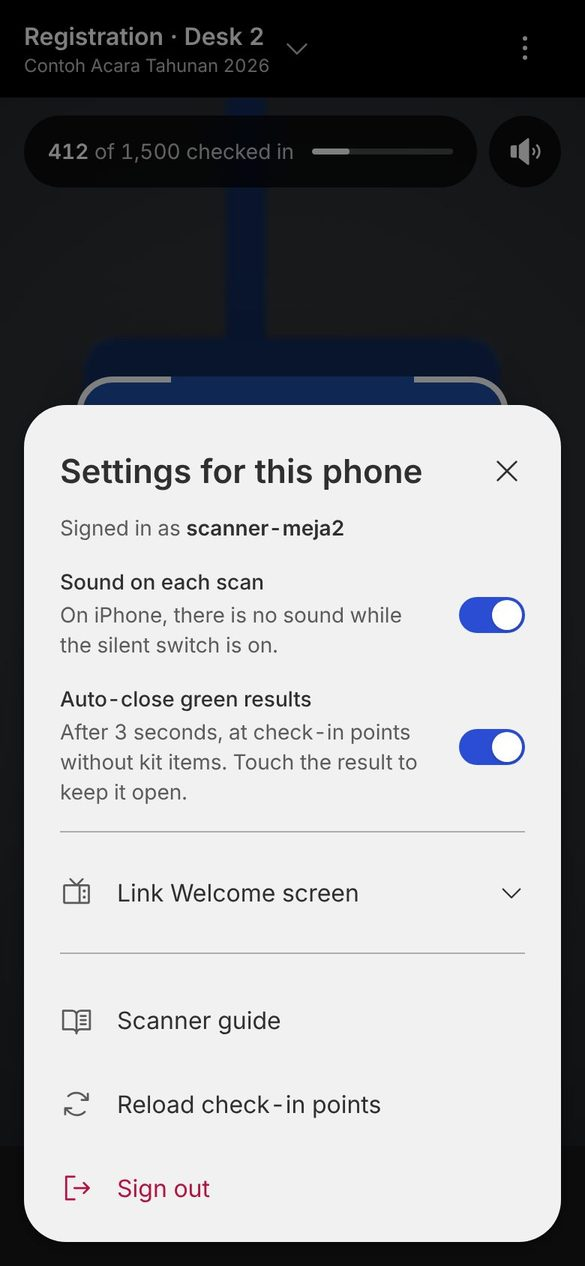
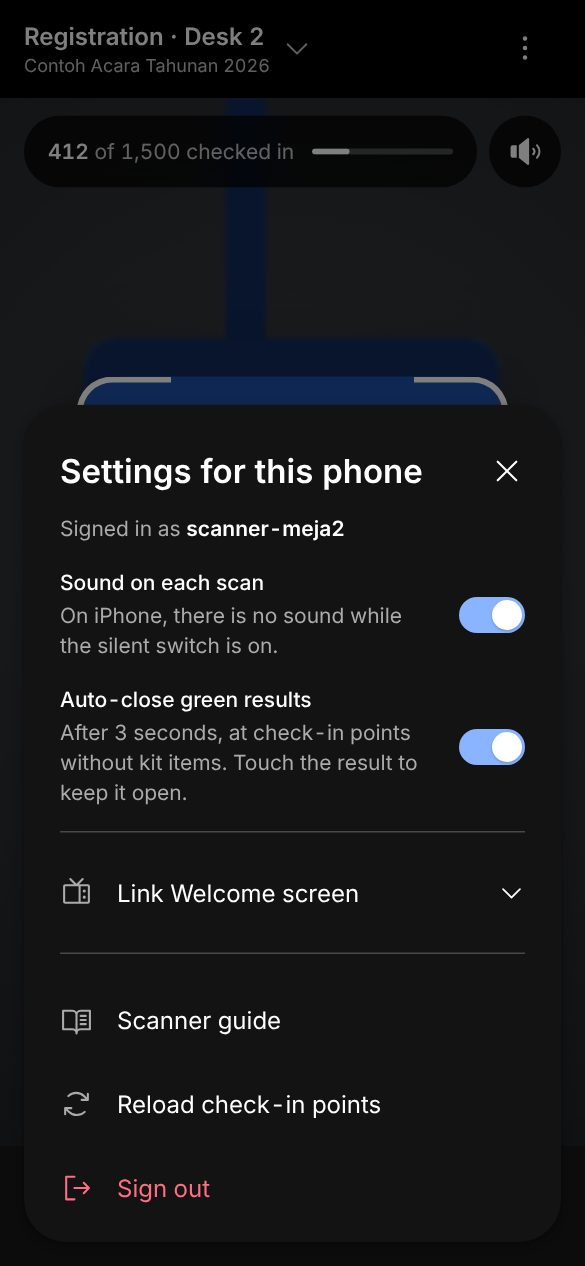
Scanner on phones: one dark theme across tabs, History kept for the day (#371)
* Scanner on phones: one dark theme for Scan, Find name and History; History kept for the day

Find name and History switched to a white canvas on phones, glaring in a dark
hall. They now use the same dark roles as the camera; the result sheet keeps
its approved status colours and the Show QR screen stays light. History keeps
the last 50 scans of the day in localStorage (names, status, time; no codes),
so a reload no longer wipes it. No SQL.

Claude-Session: https://claude.ai/code/session_01P7FxNY9NK6ZNDn6MYfiiKC

* Scanner on phones: Scan screen keeps its approved colours; History stores no raw codes and is cleared on sign-out

Claude-Session: https://claude.ai/code/session_01P7FxNY9NK6ZNDn6MYfiiKC

* Scanner on phones: one dark theme on Scan too (Mas 2 Nov); result sheet cards keep light roles; guide shots 01-14 reshot

Claude-Session: https://claude.ai/code/session_01P7FxNY9NK6ZNDn6MYfiiKC

---------

diff --git a/src/app/scan/scan-client.tsx b/src/app/scan/scan-client.tsx
@@ -171,6 +171,39 @@ const BARUSAN_MS = 30_000;
  */
 const KELONGGARAN_JAM_MS = 5_000;
 
+/**
+ * Riwayat pindaian ponsel ini, disimpan sampai akhir hari.
+ *
+ * Dulu hanya di memori: justru saat sinyal jelek petugas memuat ulang halaman,
+ * dan bukti siapa yang barusan masuk ikut hilang. Kuncinya per alamat acara
+ * (`/e/<slug>`), tanggalnya tanggal ponsel; hari berganti = daftar kosong.
+ * Hanya nama, status, dan jam: tidak ada kode QR di sini.
+ */
+type BarisRiwayat = { nama: string; status: Hasil["status"]; waktu: string };
+const BATAS_RIWAYAT = 50;
+function kunciRiwayat(): string {
+  const awalan = window.location.pathname.match(/^\/e\/[^/]+/)?.[0] ?? "";
+  return `scan-riwayat:${awalan}`;
+}
+function tanggalPonsel(): string {
+  const d = new Date();
+  return `${d.getFullYear()}-${d.getMonth() + 1}-${d.getDate()}`;
+}
+function bacaRiwayat(): BarisRiwayat[] {
+  try {
+    const isi = JSON.parse(window.localStorage.getItem(kunciRiwayat()) ?? "null") as { tanggal?: string; baris?: BarisRiwayat[] } | null;
+    if (!isi || isi.tanggal !== tanggalPonsel() || !Array.isArray(isi.baris)) return [];
+    return isi.baris.filter((b) => typeof b?.nama === "string" && typeof b?.waktu === "string").slice(0, BATAS_RIWAYAT);
+  } catch {
+    return [];
+  }
+}
+function simpanRiwayat(baris: BarisRiwayat[]) {
+  try {
+    window.localStorage.setItem(kunciRiwayat(), JSON.stringify({ tanggal: tanggalPonsel(), baris: baris.slice(0, BATAS_RIWAYAT) }));
+  } catch { /* penyimpanan penuh atau tidak tersedia: riwayat tetap di memori */ }
+}
+
 function bacaTutupOtomatis(): boolean {
   try {
     return window.localStorage.getItem(KUNCI_TUTUP) !== "0";
@@ -371,7 +404,22 @@ export default function ScanClient() {
   // Peserta aktif acara, seluruh meja. Null sampai terbaca, atau bila hitungannya
   // gagal: layar lalu kembali ke angka hadir saja, tanpa "dari".
   const [terdaftar, setTerdaftar] = useState<number | null>(null);
-  const [riwayat, setRiwayat] = useState<Array<{ nama: string; status: Hasil["status"]; waktu: string }>>([]);
+  const [riwayat, setRiwayat] = useState<BarisRiwayat[]>([]);
+  // Dibaca setelah hidrasi (localStorage tidak ada di server), lalu disimpan
+  // setiap kali berubah. `riwayatDimuat` mencegah daftar kosong awal menimpa
+  // simpanan sebelum sempat dibaca.
+  const riwayatDimuat = useRef(false);
+  useEffect(() => {
+    const timer = window.setTimeout(() => {
+      const lama = bacaRiwayat();
+      if (lama.length) setRiwayat((sekarang) => [...sekarang, ...lama].slice(0, BATAS_RIWAYAT));
+      riwayatDimuat.current = true;
+    }, 0);
+    return () => window.clearTimeout(timer);
+  }, []);
+  useEffect(() => {
+    if (riwayatDimuat.current) simpanRiwayat(riwayat);
+  }, [riwayat]);
   const [pesan, setPesan] = useState("");
   const [sibuk, setSibuk] = useState(false);
 
@@ -751,9 +799,11 @@ export default function ScanClient() {
     bunyikan(beres ? "ok" : data.status === "duplicate" ? "ulang" : "galat", suaraRef.current);
     const waktu = new Date().toISOString();
     setRiwayat((current) => [
-      { nama: data.participant?.name ?? data.qr ?? "Unknown", status: beres ? "recorded" : data.status, waktu },
+      // Kode mentah tidak disimpan: bisa jadi QR asli peserta yang dibatalkan,
+      // dan History bertahan di ponsel sampai akhir hari.
+      { nama: data.participant?.name ?? (data.status === "not_found" ? "Unknown code" : "Unknown"), status: beres ? "recorded" : data.status, waktu },
       ...current,
-    ].slice(0, 20));
+    ].slice(0, BATAS_RIWAYAT));
     if (beres && data.participant) {
       setTerakhirHadir({ nama: data.participant.name, waktu });
       const catatan = { waktu: Date.now(), hasil: data };
@@ -1310,6 +1360,16 @@ export default function ScanClient() {
   async function keluar() {
     setKeluarJalan(true);
     await fetch("/api/auth/logout", { method: "POST" }).catch(() => null);
+    // Ponsel scanner sering dipakai bergantian: History petugas sebelumnya
+    // (nama peserta) tidak ikut terbaca oleh petugas berikutnya.
+    try {
+      for (let i = window.localStorage.length - 1; i >= 0; i -= 1) {
+        const kunci = window.localStorage.key(i);
+        if (kunci?.startsWith("scan-riwayat:")) window.localStorage.removeItem(kunci);
+      }
+    } catch {
+      // Penyimpanan diblokir: tidak ada yang perlu dihapus.
+    }
     router.replace("/login");
     router.refresh();
   }
@@ -1423,6 +1483,11 @@ export default function ScanClient() {
    * Layar lebar (lg) tetap kolom kamera + panel angka.
    */
   const imersif = mode === "qr" && !tampilQr;
+  // Ponsel: satu tema gelap untuk Scan, Find name dan History. Dulu Find name
+  // dan History berganti ke kanvas putih, menyilaukan di ruang gelap dan terasa
+  // seperti aplikasi lain. Kecuali saat menampilkan QR untuk dipindai peserta:
+  // layar itu tetap terang supaya kamera peserta mudah membacanya.
+  const gelap = !tampilQr;
   const { sentinel: penandaAtas, scrolled: tergulir } = useScrolledPastTop();
 
   const judulMeja = `${sesiAktif?.name ?? "Choose a check-in point"}${jalurAktif ? ` · ${jalurAktif.name}` : ""}`;
@@ -1483,7 +1548,7 @@ export default function ScanClient() {
 
   const daftarRiwayat = (batas: number) =>
     riwayat.length === 0 ? (
-      <p className="mt-2 text-body-small text-on-surface-variant">No scans yet on this phone since the screen was opened.</p>
+      <p className="mt-2 text-body-small text-on-surface-variant">No scans on this phone today.</p>
     ) : (
       <ul className="mt-1 divide-y divide-outline-variant">
         {riwayat.slice(0, batas).map((baris, index) => (
@@ -1515,7 +1580,7 @@ export default function ScanClient() {
   };
 
   return (
-    <div lang="en" className={`scan-teks warna-pemindai min-h-dvh bg-surface text-on-surface lg:pb-12 ${imersif ? "pb-[calc(5rem+env(safe-area-inset-bottom))] max-lg:bg-black" : "pb-24"}`}>
+    <div lang="en" className={`scan-teks warna-pemindai min-h-dvh bg-surface text-on-surface lg:pb-12 ${gelap ? "gelap-ponsel gelap-ponsel-isi max-lg:bg-black" : ""} ${imersif ? "pb-[calc(5rem+env(safe-area-inset-bottom))]" : "pb-24"}`}>
       <div ref={penandaAtas} aria-hidden className="h-0" />
       {/* -------------------------------------------------------------------
           Bilah atas.
@@ -1530,7 +1595,7 @@ export default function ScanClient() {
           muncul saat ada yang tergulir di bawahnya. */}
       <header
         className={`sticky top-0 z-30 border-b bg-surface transition-colors ${tergulir ? "border-outline-variant" : "border-transparent"} ${
-          imersif ? "gelap-ponsel max-lg:border-transparent max-lg:bg-black max-lg:text-white" : ""
+          gelap ? "gelap-ponsel max-lg:border-transparent max-lg:bg-black max-lg:text-white" : ""
         }`}
       >
         <div className="mx-auto flex h-16 w-full max-w-[1280px] items-center gap-2 px-4 sm:px-6 lg:px-8">
@@ -1542,14 +1607,14 @@ export default function ScanClient() {
           >
             <span className="min-w-0">
               <span className="block truncate text-title-large font-semibold max-lg:text-title-medium">{judulMeja}</span>
-              <span className={`block truncate text-body-small text-on-surface-variant ${imersif ? "max-lg:text-white/75" : ""}`}>{eventName || "Loading…"}</span>
+              <span className={`block truncate text-body-small text-on-surface-variant ${gelap ? "max-lg:text-white/75" : ""}`}>{eventName || "Loading…"}</span>
             </span>
-            <CaretDown size={20} className={`shrink-0 text-on-surface-variant ${imersif ? "max-lg:text-white/75" : ""}`} aria-hidden />
+            <CaretDown size={20} className={`shrink-0 text-on-surface-variant ${gelap ? "max-lg:text-white/75" : ""}`} aria-hidden />
             <span className="sr-only">Change check-in point or desk</span>
           </button>
           <span className="hidden flex-1 lg:block" />
           {offline ? <ChipOffline /> : null}
-          <IconButton label="Scanner menu" onClick={() => setMenuTerbuka(true)} className={imersif ? "max-lg:!text-white" : undefined}>
+          <IconButton label="Scanner menu" onClick={() => setMenuTerbuka(true)} className={gelap ? "max-lg:!text-white" : undefined}>
             <DotsThreeVertical size={24} weight="bold" />
           </IconButton>
         </div>
@@ -1850,7 +1915,8 @@ export default function ScanClient() {
                   <p className="text-body-small text-on-surface-variant">
                     The count above covers all desks at this check-in point and counts people, not repeat scans.
                   </p>
-                  {daftarRiwayat(20)}
+                  {daftarRiwayat(BATAS_RIWAYAT)}
+                  {riwayat.length > 0 ? <p className="mt-2 text-body-small text-on-surface-variant">Kept on this phone until the end of the day, also after a reload.</p> : null}
                 </div>
               </div>
             ) : null}
@@ -1886,7 +1952,7 @@ export default function ScanClient() {
       <nav
         aria-label="Scanner mode"
         className={`fixed inset-x-0 bottom-0 z-30 flex h-[calc(5rem+env(safe-area-inset-bottom))] bg-surface-container pb-[env(safe-area-inset-bottom)] lg:hidden ${
-          imersif ? "gelap-ponsel" : "border-t border-outline-variant"
+          gelap ? "gelap-ponsel" : "border-t border-outline-variant"
         }`}
       >
         {navBawah("qr", "Scan", <QrCode size={24} weight={mode === "qr" ? "fill" : "regular"} aria-hidden />)}

diff --git a/src/app/globals.css b/src/app/globals.css
@@ -2317,6 +2317,79 @@ html:hover {
 		--cincin-fokus: #8ab4ff;
 	}
 }
+/* Isi layar pemindai ponsel (Scan, Find name, History; Mas 2 Nov: satu tema
+ * gelap): peran gelap lengkap supaya kartu, kolom cari, dan teks status
+ * tetap terbaca di kanvas hitam. Lembar hasil TIDAK di-portal, jadi warnanya
+ * dikembalikan lewat .hasil-nada di bawah. Dialog yang dibuka dari layar ini
+ * ikut gelap. */
+@media (width < 64rem) {
+	.gelap-ponsel-isi {
+		--surface: #000000;
+		--surface-muted: #1f1f1f;
+		--md-sys-color-surface: #000000;
+		--md-sys-color-surface-container-low: #131313;
+		--md-sys-color-surface-container-high: #1f1f1f;
+		--md-sys-color-surface-container-highest: #262626;
+		--md-sys-color-surface-variant: #262626;
+		--md-sys-color-error: #ff6e84;
+		--md-sys-color-success: #7ad8bd;
+		--md-sys-color-warning: #ffb68c;
+		--md-sys-color-error-soft: #67001f;
+		--md-sys-color-on-error-soft: #ffdadc;
+		--md-sys-color-success-soft: #00382c;
+		--md-sys-color-on-success-soft: #96f4d9;
+		--md-sys-color-warning-soft: #522300;
+		--md-sys-color-on-warning-soft: #ffdbc9;
+	}
+	/* Seluruh lembar hasil (termasuk kartu bagasi, barang, dan cetak di
+	 * dalamnya) kembali ke peran terang: tema gelap hanya untuk kanvas di
+	 * belakangnya. Nilainya salinan peran terang m3-theme.css. */
+	.gelap-ponsel-isi .lembar-hasil {
+		color-scheme: light;
+		--surface: var(--md-sys-color-surface-container-lowest);
+		--surface-muted: var(--md-sys-color-surface-container);
+		--md-sys-color-on-surface: #2f2f2f;
+		--md-sys-color-on-surface-variant: #5b5b5b;
+		--md-sys-color-outline: #777777;
+		--md-sys-color-outline-variant: #adadad;
+		--md-sys-color-surface: #f6f6f6;
+		--md-sys-color-surface-container: #e8e8e8;
+		--md-sys-color-surface-container-lowest: #ffffff;
+		--md-sys-color-surface-container-low: #f1f1f1;
+		--md-sys-color-surface-container-high: #e2e2e2;
+		--md-sys-color-surface-container-highest: #dddddd;
+		--md-sys-color-surface-variant: #dddddd;
+		--md-sys-color-secondary-container: #d8e2ff;
+		--md-sys-color-on-secondary-container: #0b2a6b;
+		--md-sys-color-primary-soft: #f0efff;
+		--md-sys-color-on-primary-soft: #002ba4;
+		--md-sys-color-primary: #2b4dd4;
+		--md-sys-color-on-primary: #f2f1ff;
+		--md-sys-color-success: #006b58;
+		--md-sys-color-on-success: #ffffff;
+		--md-sys-color-warning: #934b18;
+		--md-sys-color-on-warning: #ffffff;
+		--md-sys-color-error: #b41340;
+		--md-sys-color-on-error: #ffefef;
+		--md-sys-color-error-soft: #ffeced;
+		--md-sys-color-on-error-soft: #7c0027;
+		--md-sys-color-success-soft: #b8ffe9;
+		--md-sys-color-on-success-soft: #004437;
+		--md-sys-color-warning-soft: #ffede5;
+		--md-sys-color-on-warning-soft: #632b00;
+		--cincin-fokus: initial;
+	}
+	/* Lembar hasil tetap memakai warna status terang yang sudah disetujui
+	 * (#270): putih di atas hijau, oranye, merah yang pekat. */
+	.gelap-ponsel-isi .hasil-nada {
+		--md-sys-color-success: #006b58;
+		--md-sys-color-on-success: #ffffff;
+		--md-sys-color-warning: #934b18;
+		--md-sys-color-on-warning: #ffffff;
+		--md-sys-color-error: #b41340;
+		--md-sys-color-on-error: #ffefef;
+	}
+}
 .hasil-ikon {
 	background: color-mix(in srgb, currentColor 16%, transparent);
 }

diff --git a/public/panduan/scanner.html b/public/panduan/scanner.html
@@ -206,7 +206,7 @@ footer { margin-top: 36px; color: var(--muted); font-size: 13px; }
     <figure><img src="/panduan/scanner/14-riwayat.jpg" alt="Daftar Scans on this phone" loading="lazy"><figcaption>Status di kanan tiap nama</figcaption></figure>
     <ul>
       <li><span class="ui">checked in</span> berhasil (termasuk walk-in yang baru didaftarkan), <span class="ui">repeat</span> pindaian ulang, <span class="ui">failed</span> kode tidak dikenal.</li>
-      <li>Riwayat hanya berisi pindaian dari HP ini sejak layar dibuka. Kalau halaman dimuat ulang, daftarnya kosong lagi, tetapi datanya tetap aman di server.</li>
+      <li>Riwayat berisi pindaian dari HP ini hari ini (paling banyak 50 terakhir), dan tetap ada walaupun halaman dimuat ulang. Besok daftarnya mulai kosong lagi. Datanya sendiri selalu aman di server.</li>
       <li>Ragu apakah seseorang sudah hadir? Cari namanya di <span class="ui">Find name</span>. Orang yang sudah hadir bertuliskan <span class="ui">Checked in</span> beserta jamnya, dari meja mana pun.</li>
       <li>Angka besar di atas riwayat menghitung orang dari semua meja, bukan jumlah pindaian. Kotak itu juga menulis berapa yang belum hadir.</li>
     </ul>

diff --git a/src/app/scan/result-sheet.tsx b/src/app/scan/result-sheet.tsx
@@ -239,7 +239,7 @@ export function ResultSheet({
       // sheet M3, bukan kartu yang melayang 16 px dari tepi. Di layar lebar ia
       // tetap di tengah: dua versi panel tanpa modal sudah ditolak pemakainya
       // (lihat catatan di atas).
-      className={`${tampilan ? LEMBAR[tampilan.nada] : ""} max-sm:-mx-4 max-sm:-mb-4 max-sm:w-[calc(100%+2rem)] max-sm:max-w-none max-sm:rounded-b-none max-sm:rounded-t-[28px] sm:rounded-[28px]`}
+      className={`lembar-hasil ${tampilan ? LEMBAR[tampilan.nada] : ""} max-sm:-mx-4 max-sm:-mb-4 max-sm:w-[calc(100%+2rem)] max-sm:max-w-none max-sm:rounded-b-none max-sm:rounded-t-[28px] sm:rounded-[28px]`}
     >
       {hasil && tampilan ? (
         // `aria-live` menempel di wadah yang TIDAK ikut dipasang ulang. Memasang

diff --git a/docs/STATUS.md b/docs/STATUS.md
@@ -19,6 +19,7 @@ Current state only. History is in `git log` and PR descriptions. Last updated: 2
 - Lucky draw operator panel (Mas 1 Nov, from the lucky draw audit): after the names are revealed the big button decides the winners ("Mark present" / "Mark all N present") instead of drawing again; "Mark all present" covers main winners only; a backup is used only when a main winner is absent ("Mark Backup 1 present"), unused backups are released back to the pool, and once every name is decided absent seats get "Draw N replacements" (the dialog's "draw a replacement now" switch shows only for the last undecided name with no backup waiting); the server refuses to confirm beyond the quota and counts confirmed backups in it; Prizes & rules > prize > Draw order (Move up / Move down) sets the operator panel order and new prizes go last; "Next prize: …" when a prize's quota is full; presenter clicker, → or Space runs the main action; on phones the draw panel sits above the prize list; with the editor open the prize list keeps prize names. Admin only, no SQL. #367 merged 1 Nov (QA GO, Mas OK for KSO).
 - Lucky draw stage text per prize (Mas 1 Nov, for KSO): Prizes & rules > prize > After the winner is revealed: Nothing (default, stage unchanged), To the stage ("Silakan maju ke panggung") or At the desk ("Silakan ambil hadiah di meja panitia"), with optional own text up to 120 characters. The line sits between the prize name and the winner names (space reserved from the start of the draw) and appears after the animation has revealed the last name. Migration `202611010001_undian_setelah_menang` (two columns, defaults keep every event at 0 px) must run BEFORE merge. Same PR: a prize drawn from an entry list can import a new list from the prize editor ("Import a new list" dialog, the new list is selected and the prize details stay), so the organiser no longer leaves the editor for the Entry lists tab. Also Stage display > Waiting screen > Show the prize lineup (off by default): active prizes in draw order on the waiting screen, current one highlighted, drawn ones struck through; full screen before a prize is chosen, a compact row under the prize while idle (same migration adds `undian_settings.show_lineup`). PR open, waiting on QA and the migration. Later: reveal one by one, grand prize in three acts, claim countdown.
 - Check-in page tidy-up (audit 1 Nov, Mas: "kerjakan semua"): page fully English; each session row shows "N not here yet" and a status chip instead of the Open switch; open/close moved to the detail, closing asks first (it stops every scanner phone on that session); "Show who is not here yet" opens Participant list with the Check-in filter (`?hadir=<id>:no`); Walk-in tab became a Scanner settings dialog; tabs are Sessions, Checkpoints, Desks. Admin only, no SQL, scanner and portal unchanged. #369 merged 2 Nov (QA GO, Mas OK).
+- Scanner phone tidy-up (check-in audit 1 Nov): on phones Scan, Find name and History share one dark theme (Mas 2 Nov; filled buttons become light blue with dark text; the result sheet, including its luggage, kit and print cards, keeps its approved light colours; the Show QR screen stays light); History keeps the last 50 scans of the day on the phone, also after a reload (names, status and time only; unknown codes are stored as "Unknown code"), and Sign out clears it. No SQL. Scanner guide screenshots 01-14 reshot. #371 merged 2 Nov (QA GO, Mas OK).
 - Event page editor rebuild, PR 4 of 5 (on PR 3): a row's ⋯ menu has "Add block below" (Modern), so a new block goes where it is wanted instead of at the end; Add block is pinned to the panel foot; the Add block dialog has search (name, description, group), blocks grouped by the registry's groups (Text and media, Cards and lists, From your event data, Guidance, Partners and calls to action), a larger preview and where it can show. Admin only, no SQL, event pages 0 px. PR open, waiting on QA.
 - Event page editor rebuild, PR 5 of 5 (on PR 4): on Modern, rows whose position the page ignores are no longer draggable and sit where they render: Sponsors & partners and Staff contacts (except Horizon) under Bottom of page, Key figures right under About, and Key figures is left out on gathering styles that never show it. Data unchanged; Editorial/Forum unchanged. The audit idea of merging these sections into blocks was dropped: they are not duplicates (the footer logo strip and About figure are different renders). Admin only, no SQL, event pages 0 px. PR open, waiting on QA.
 - Event page editor rebuild, PR 3 of 5 (on PR 2): opening a section replaces the list ("‹ Sections / name" bar with eye and ⋯; Back returns to the same scroll position) instead of expanding inside the list; cards, points, figures, photos, logos and columns are one-line rows with one open at a time; Show on moved below the content. Splitting `admin/landing/page.tsx` is left for after KSO (no user-facing gain). Admin only, no SQL, event pages 0 px. PR open, waiting on QA. Parked Low: below 1024 px the back bar scrolls away with the page (as the old sticky row header did).
